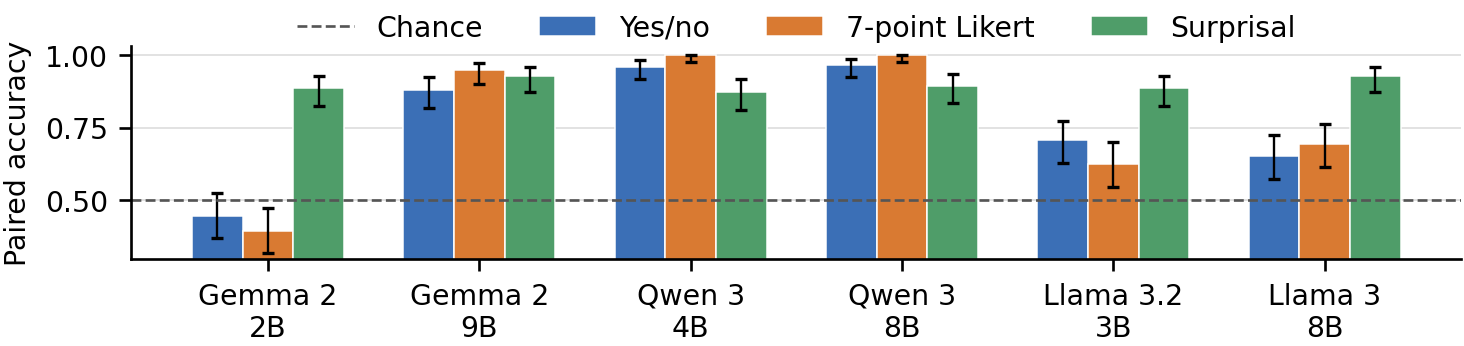
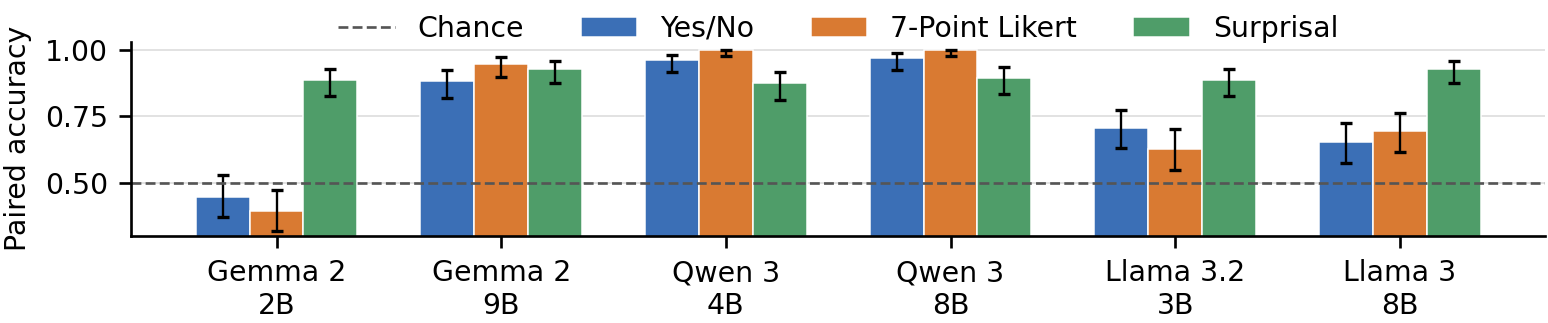
c

diff --git a/paper.tex b/paper.tex
@@ -74,7 +74,7 @@ For all tasks, we report paired accuracy, which is the proportion of critical it
 
 \begin{figure}[t]
   \centering
-  \includegraphics[width=.7\linewidth]{figures/rq1_behavior.pdf}
+  \includegraphics[width=.75\linewidth]{figures/rq1_behavior.pdf}
   \caption{Paired accuracy of model judgments on implicit causal inference items, comparing Yes/No prompting, 7-point likert rating, and the surprisal of the continuation \textit{", and I don't know why."} Higher accuracy indicates better performance in implicit causality inferences.}
   \label{fig:rq1}
 \end{figure}
@@ -108,7 +108,7 @@ We use \emph{Occasion} and \emph{Plausibility} as baselines because both require
 % \vspace{-6pt}
 \begin{figure}[t]
   \centering
-  \includegraphics[width=.6\linewidth]{figures/rq2b_causal_ood_caa_accuracy.pdf}
+  \includegraphics[width=.65\linewidth]{figures/rq2b_causal_ood_caa_accuracy.pdf}
   \caption{Paired accuracy of causal, occasional, and plausibility CAA directions on 150 unseen within-sentence causal inference pairs with 95\% CIs. \textbf{Causal CAA directions generalize consistently to within-sentence implicit causal inference.} Occasional and plausibility CAA directions transfer less consistently to within-sentence implicit causal items.}
   \label{fig:rq2b}
 \end{figure}

diff --git a/derived/rq3_self_blinding_stimuli.tex b/derived/rq3_self_blinding_stimuli.tex
@@ -1,5 +1,9 @@
 \begingroup
 \scriptsize
+\setlength{\LTcapwidth}{\textwidth}
+\makeatletter
+\renewcommand{\fnum@table}{\normalsize\tablename~\thetable}
+\makeatother
 \setlength{\tabcolsep}{2pt}
 \renewcommand{\arraystretch}{1.08}
 \begin{longtable}{p{.10\linewidth}p{.275\linewidth}p{.275\linewidth}p{.275\linewidth}}
